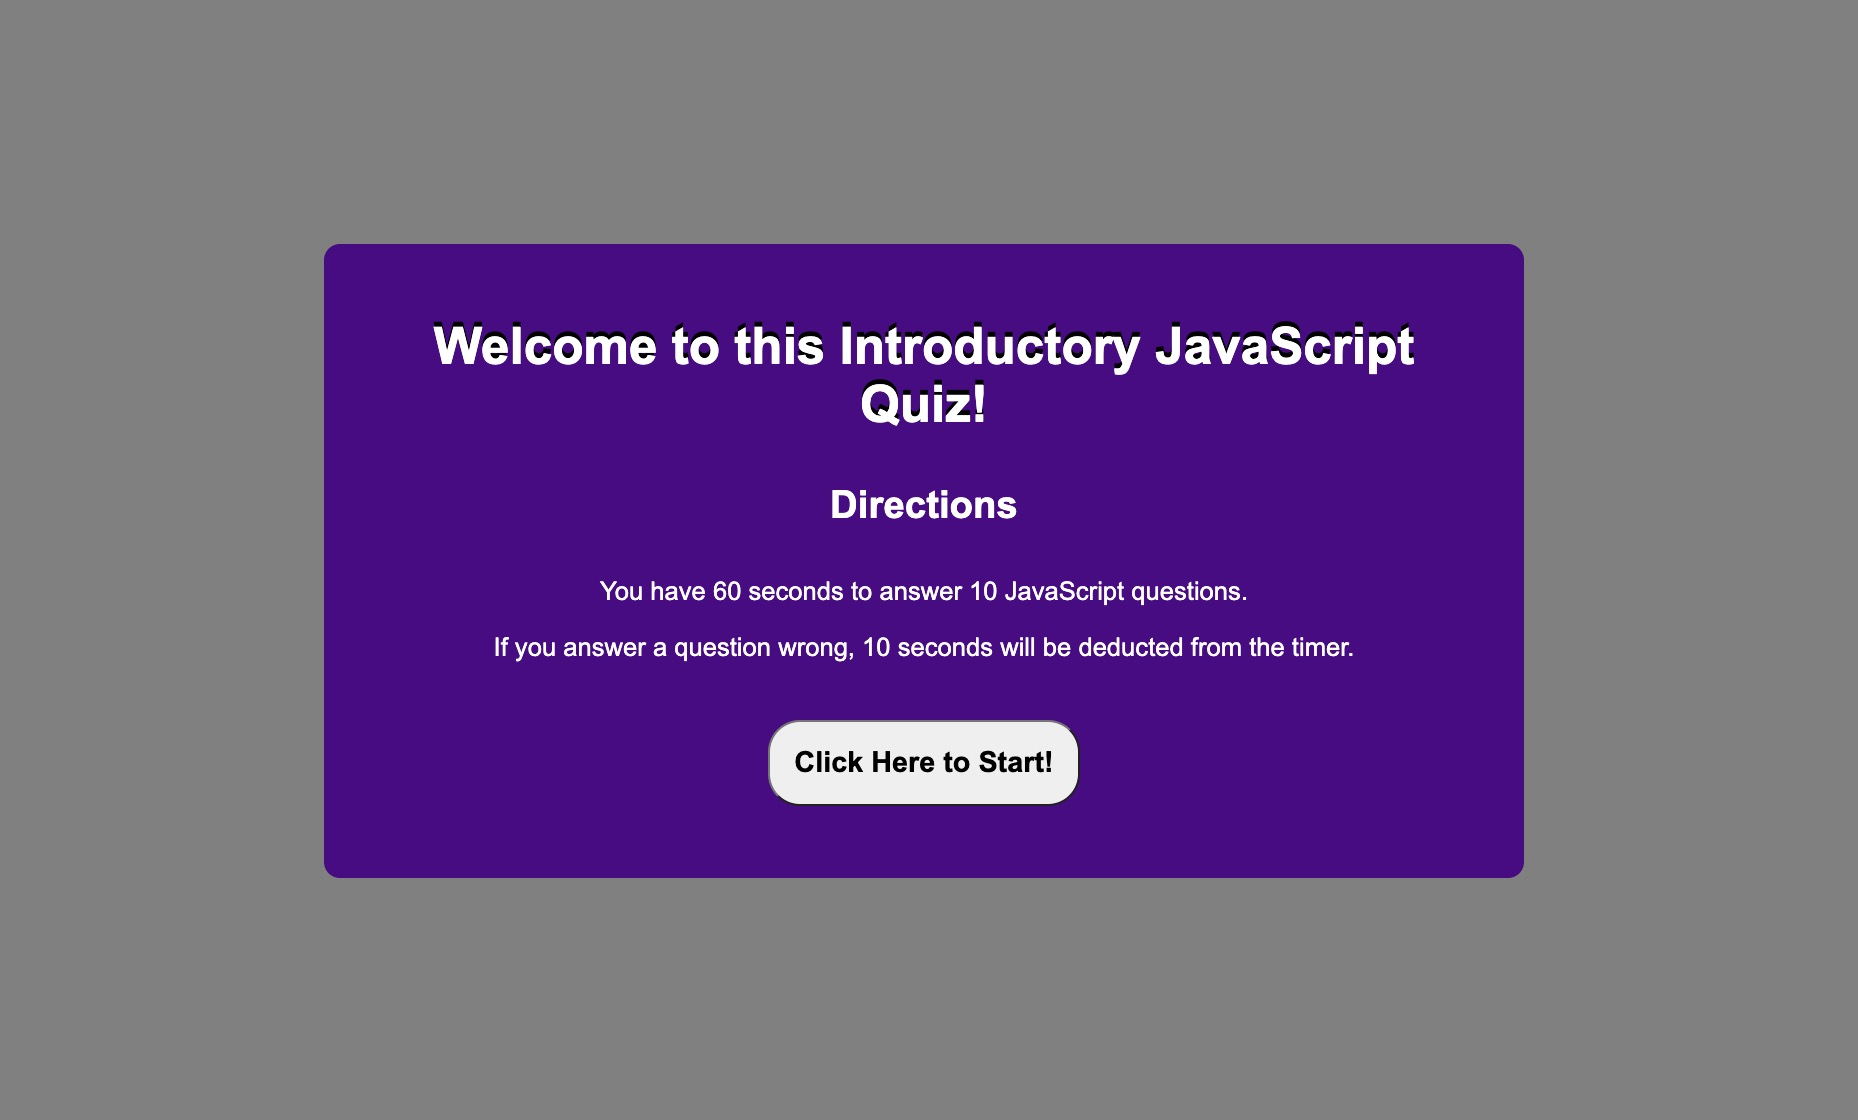
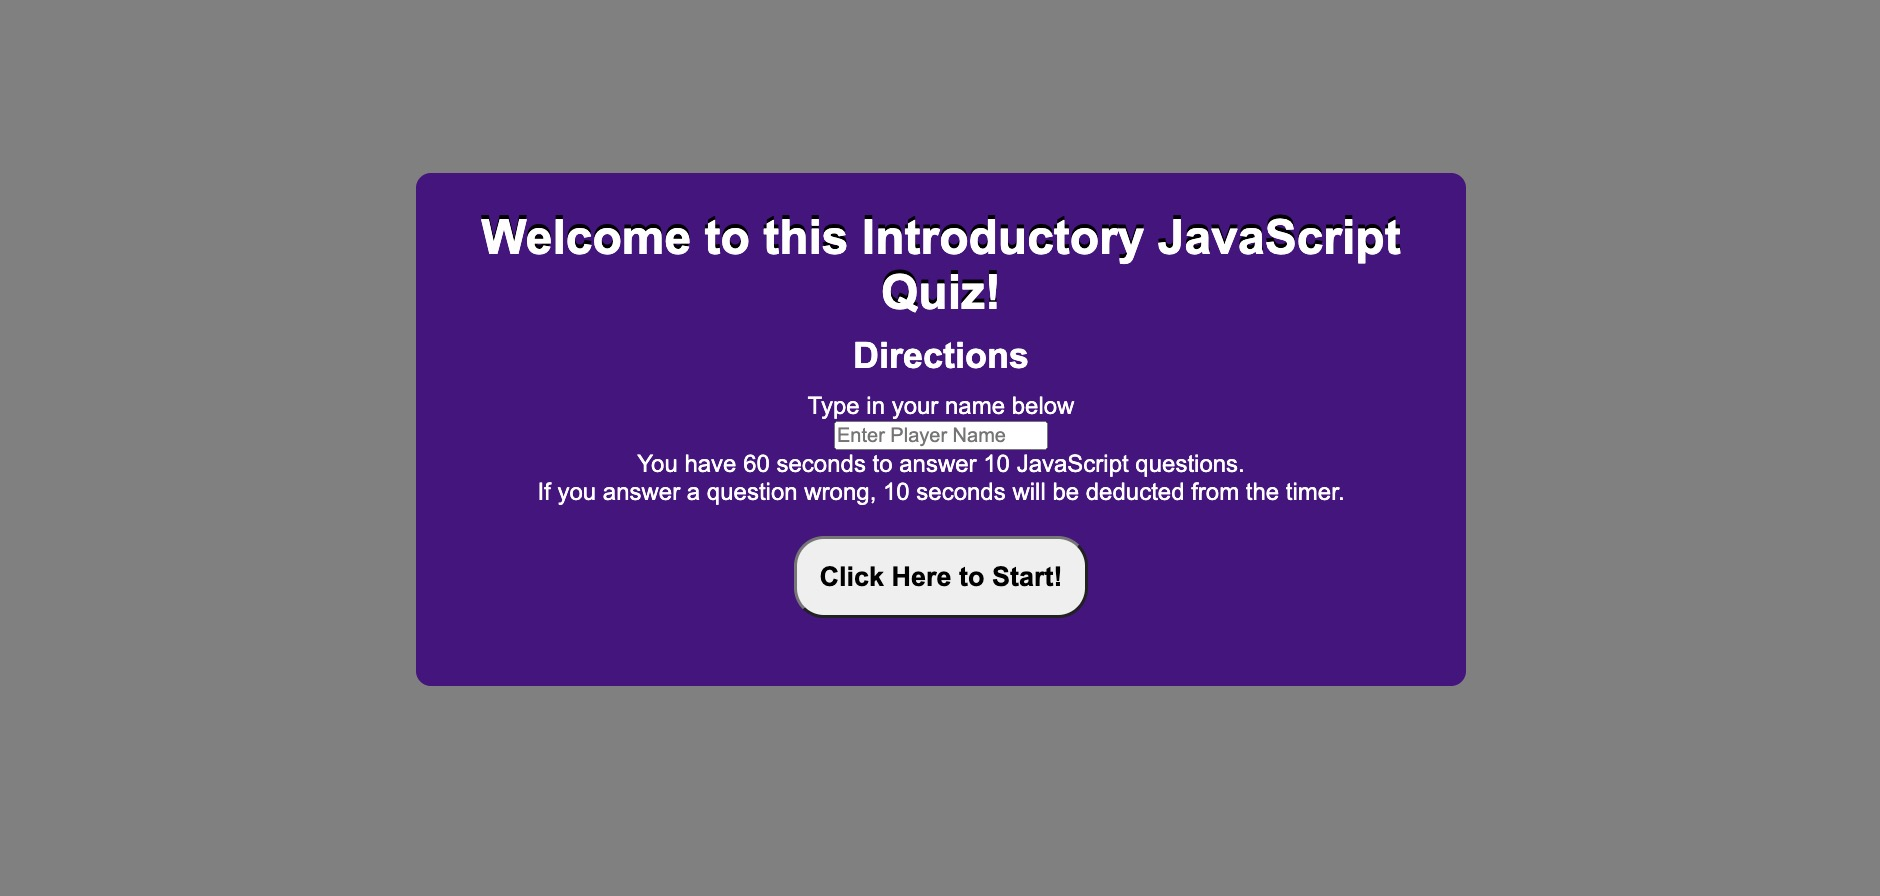
adding screenshots

Changed region(s): [[0.1561, 0.1875, 0.8428, 0.8125]]

diff --git a/README.md b/README.md
@@ -10,3 +10,5 @@ https://cesarsiguencia.github.io/introductory-javascript-quiz/
 ![Screenshot 1](/screenshots/screenshot-1.jpeg)
 
 ![Screenshot 2](/screenshots/screenshot-2.jpeg)
+
+![Screenshot 3](/screenshots/screenshot-3.jpeg)
